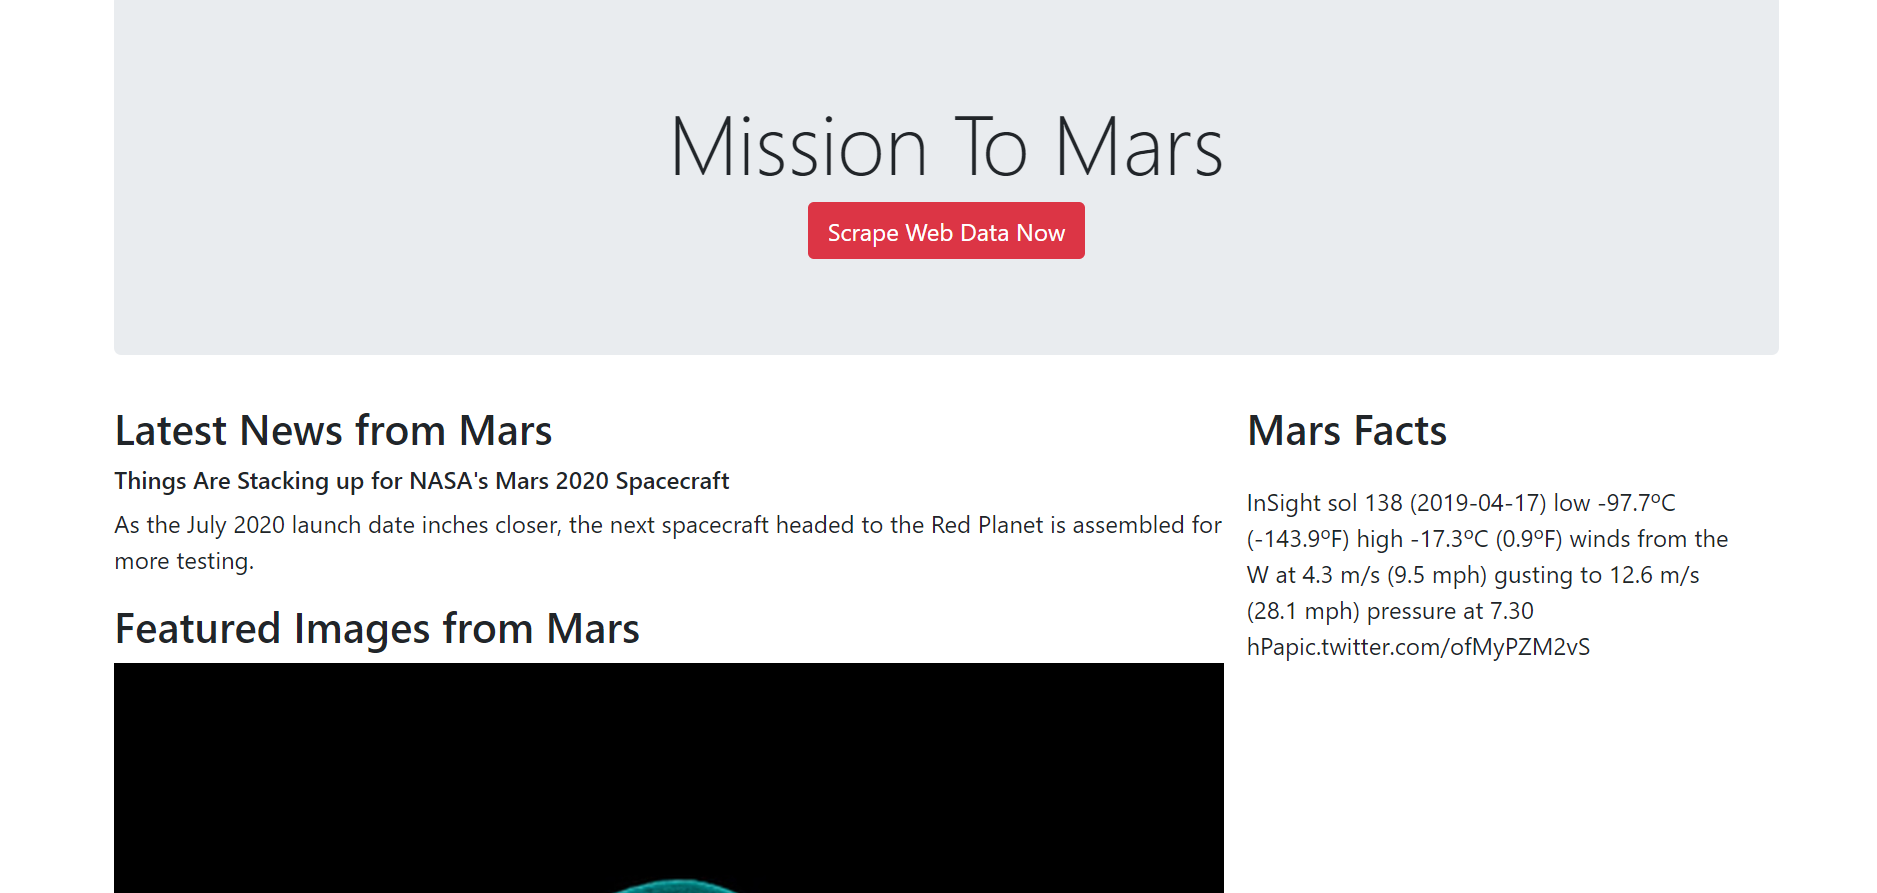
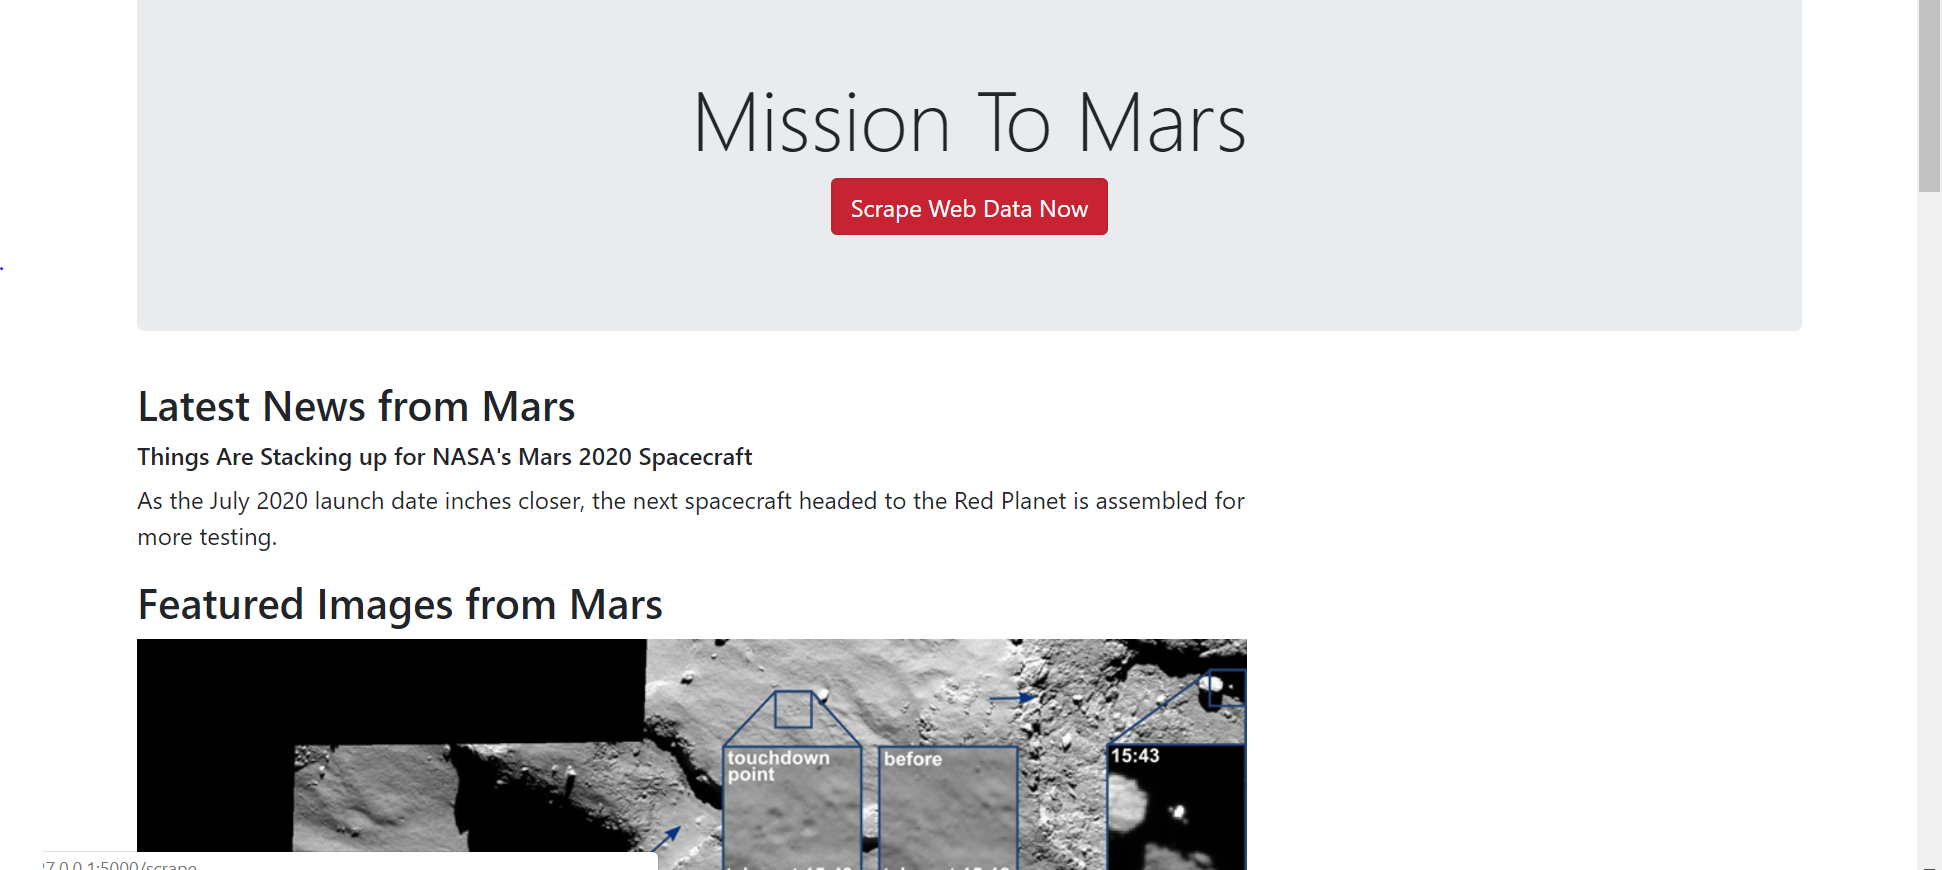
finish template

diff --git a/templates/index.html b/templates/index.html
@@ -34,10 +34,21 @@
                         </div> 
                     </div>
                 </div>
+                <div class="row">
+                    <div class="col-md-12">
+                            <div class="panel-body">
+                                <h4>Mars Weather</h4>
+                                <p>{{mars.Mars_Weather}}</p>
+                            </div>
+                        </div>
+              
+              
+                    </div>
+                </div>
                 <div class="col-lg-4 col-md-4 col-sm-12" style="height: 100%">
                     <h3>Mars Facts</h3>
                     <div style="height:100%; margin-top:20px;">
-                        {{mars.Mars_Weather|safe}}
+                        {{mars.Mars_Facts|safe}}
                     </div>
                 </div>
                 </div>

diff --git a/scrape_mars.py b/scrape_mars.py
@@ -256,6 +256,7 @@ def scrape():
         "News_Title": news_title,
         "Paragraph_Text": news_p,
         "Most_Recent_Mars_Image": featured_image_url,
+        "Mars_Facts": table,
         "Mars_Weather": mars_weather,
         "mars_h": hemisphere_image_urls
             }
